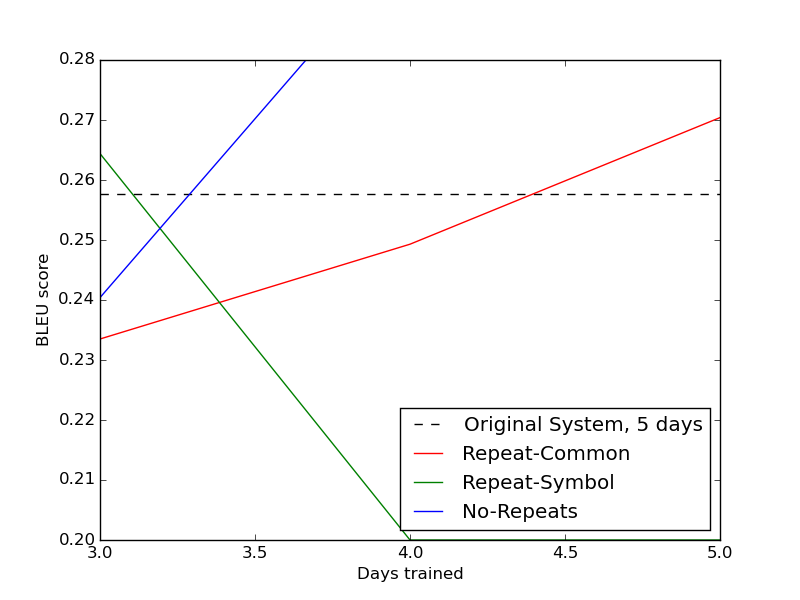
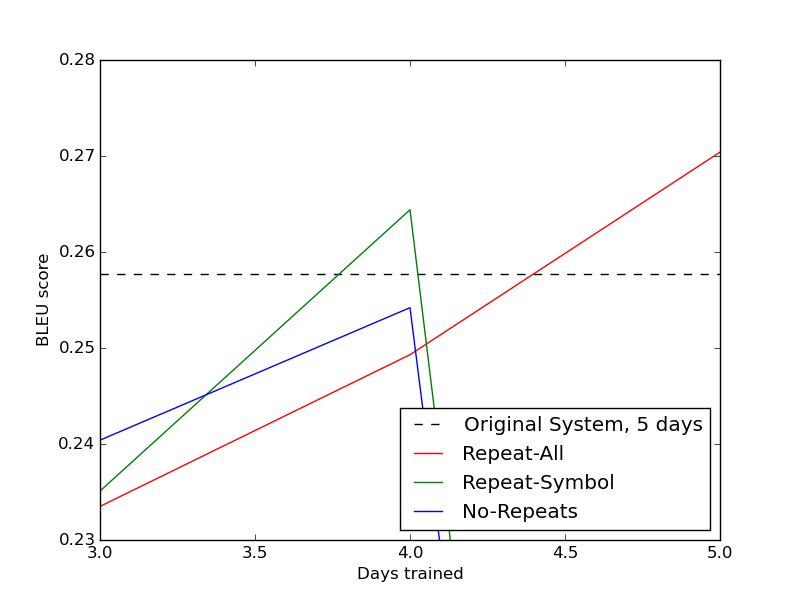
rohan's revisions

diff --git a/3-encoding.tex b/3-encoding.tex
@@ -8,28 +8,29 @@ We distinguish these highest frequency words by referring to them
 as ``common,'' and we call the other words ``rare.''\\
 
 The first encoding scheme, named
-``Repeat-Common,'' encodes every rare word as two words: a special symbol
-of the form ``sXXXX,'' where the X are digits from 0 to 9, followed by a
-common word. For example, consider encoding the sentence ``cat cat eat dog dog play''
+``Repeat-All,'' encodes every rare word as two words: a special symbol
+of the form ``sXXXX,'' where the X are digits from 0 to 9, followed by any
+already-occurring symbol (either a common word or a symbol ``sXXXX'').
+ For example, suppose our entire corpus is the sentence ``to be or not to be''
 with a common word size of 2. The following diagram shows a possible encoding
-tree under the Repeat-Common scheme:
+tree under the Repeat-All scheme (TODO: add labels to branches and follow style guidelines):
 
-\Tree[. [cat ]
-        [dog ]
-        [.s24 [dog ] [cat ]]]
+\Tree[. [to ]
+        [be ]
+        [.s24 [be ] [s27 ]]]
 
-Then, the sentence would be encoded as ``cat cat s24 dog dog dog s24 cat.''\\
+Then, the sentence would be encoded as ``to be s24 be s24 s27 to be.''\\
 
 The second encoding scheme, ``Repeat-Symbol,'' encodes rare words in the
 form ``sXXXX sXXXX,'' where as before the X are digits from 0 to 9. Under
 this encoding scheme, here is a possible tree for the vocabulary in the
 example sentence:
 
-\Tree[. [cat ]
-        [dog ]
+\Tree[. [to ]
+        [be ]
         [.s24 [s57 ] [s87 ]]]
 
-Then, the sentence would be encoded as ``cat cat s24 s57 dog dog s24 s87.''\\
+Then, the sentence would be encoded as ``to be s24 s57 s24 s87 to be.''\\
 
 Our final encoding scheme, ``No-Repeats,'' encodes rare words in the
 form ``sXXXX tXXXX,'' where again the X are digits from 0 to 9. We note that
@@ -38,11 +39,11 @@ vocabulary, the translation system has a better opportunity to learn the
 rare word encodings. Here is a possible tree corresponding to the example
 sentence:
 
-\Tree[. [cat ]
-        [dog ]
+\Tree[. [to ]
+        [be ]
         [.s24 [t57 ] [t87 ]]]
 
-Then, the sentence would be encoded as ``cat cat s24 t57 dog dog s24 t87.''
+Then, the sentence would be encoded as ``to be s24 t57 s24 t87 to be.''
 
 \subsection{Symbol Counts}
 To maximize performance, it is critical to set the number of common words (which
@@ -55,8 +56,12 @@ $K$: Size of the transformed vocabulary (number of words in the encoded text).\\
 
 We are interested in solving for $W$.\\
 
-\textbf{Repeat-Common}\\
-TODO\\
+\textbf{Repeat-All}\\
+We would like to encode the $V - W$ rare words, using only $K - W$ new symbols. To do so,
+for each new symbol (non-terminal node in our encoding tree), we have all $K$ symbols under
+it in that branch. Therefore, we find $V - W = (K - W)K$.\\
+
+TODO: explain why 2 level tree.\\
 
 \textbf{Repeat-Symbol}\\
 Out of the $V - W$ rare words, we would like to pack them into a complete tree so that

diff --git a/2-background.tex b/2-background.tex
@@ -49,7 +49,12 @@ learn translations for even the rare words.\\
 
 Some approaches have altered the model itself to circumvent the expensive normalization computation, rather than
 applying preprocessing and postprocessing on the text. \newcite{journals/corr/JeanCMB14}
-develop an importance sampling strategy for estimating the exponent term in equation (3), thus leading to
+develop an importance sampling strategy for estimating the exponent term in equation (4), thus leading to
 an approximation of the softmax computation. \newcite{NIPS2013_5165}
 present a technique for approximation of target word probability using noise-contrastive estimation. Our method can
 be applied in conjunction with these techniques.\\
+
+\newcite{5947611} develop a modification to their recurrent neural network architecture for language models. They
+factorize the output layer by introducing a hidden layer that assigns a \emph{class} to each word
+based on frequency, so that the output layer only evaluates words of the class predicted by the hidden layer.
+Although the application is different, our method also involves frequency-based grouping of symbols.\\

diff --git a/plots.py b/plots.py
@@ -2,14 +2,14 @@ import matplotlib.pyplot as plt
 
 days = [3, 4, 5]
 orig = [0.2577, 0.2577, 0.2577]
-repeat_common = [0.2335, 0.2493, 0.2704]
-repeat_symbol = [0.2644, 0.2, 0.2]
-no_repeats = [0.2404, 0.3, 0.3]
+repeat_all = [0.2335, 0.2493, 0.2704]
+repeat_symbol = [0.2351, 0.2644, 0]
+no_repeats = [0.2404, 0.2542, 0]
 
-plt.plot(days, orig, "k--", days, repeat_common, "r", days, repeat_symbol, "g", days, no_repeats, "b")
-plt.axis([3, 5, 0.2, 0.28])
+plt.plot(days, orig, "k--", days, repeat_all, "r", days, repeat_symbol, "g", days, no_repeats, "b")
+plt.axis([3, 5, 0.23, 0.28])
 plt.xlabel("Days trained")
 plt.ylabel("BLEU score")
-plt.legend(["Original System, 5 days", "Repeat-Common", "Repeat-Symbol", "No-Repeats"], loc=4)
+plt.legend(["Original System, 5 days", "Repeat-All", "Repeat-Symbol", "No-Repeats"], loc=4)
 plt.savefig("images/graph.png")
 plt.show()

diff --git a/main.tex b/main.tex
@@ -46,16 +46,16 @@
 
 \title{Variable-Length Word Encoding for Neural Translation Models}
 
-\author{Remove Me? \\
- Affiliation / Address line 1 \\
- Affiliation / Address line 2 \\
- Affiliation / Address line 3 \\
- {\tt email@domain} \\\And
- Second Author \\
- Affiliation / Address line 1 \\
- Affiliation / Address line 2 \\
- Affiliation / Address line 3 \\
- {\tt email@domain} \\}
+% \author{Remove Me? \\
+%  Affiliation / Address line 1 \\
+%  Affiliation / Address line 2 \\
+%  Affiliation / Address line 3 \\
+%  {\tt email@domain} \\\And
+%  Second Author \\
+%  Affiliation / Address line 1 \\
+%  Affiliation / Address line 2 \\
+%  Affiliation / Address line 3 \\
+%  {\tt email@domain} \\}
 
 \begin{document}
 

diff --git a/4-experiments.tex b/4-experiments.tex
@@ -33,7 +33,7 @@ TODO: analyze results\\
     \midrule
       None & 0.2577\\
     \midrule
-      Repeat-Common & 0.2704\\
+      Repeat-All & 0.2704\\
     \midrule
       Repeat-Symbol & TODO\\
     \midrule

diff --git a/5-conclusion.tex b/5-conclusion.tex
@@ -1,4 +1,4 @@
-\section{Conclusion}
+\section{Conclusion and Future Work}
 \label{sec:conclusion}
 
 Recurrent neural network-based deep learning approaches
